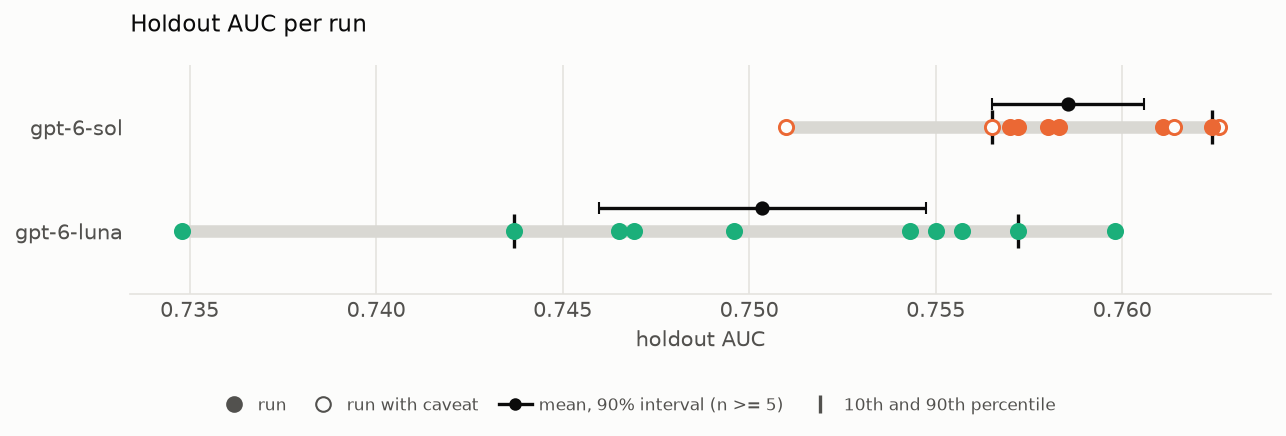
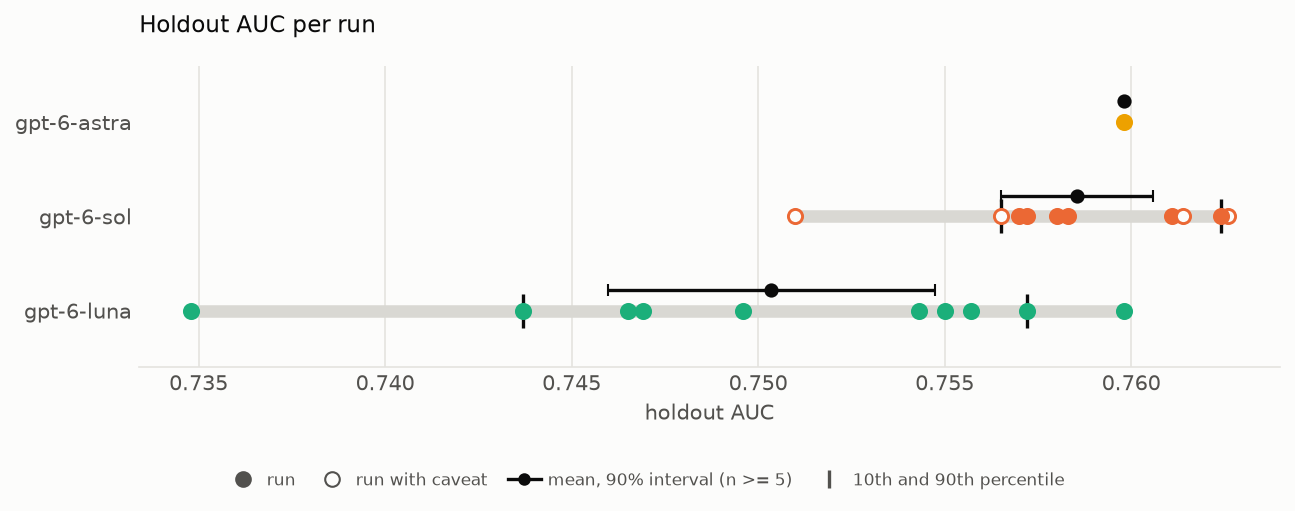
SUMMARY plots: add astra6_n10 run 1 (gpt-6-astra)
plot_holdout_auc: give gpt-6-astra the next fixed colour slot (3).

diff --git a/tools/plot_holdout_auc.py b/tools/plot_holdout_auc.py
@@ -38,7 +38,7 @@ from scipy import stats
 SERIES = ["#2a78d6", "#eb6834", "#1baf7a", "#eda100", "#e87ba4", "#008300", "#4a3aa7", "#e34948"]
 # colour follows the model in every plot: add new models here with the next free slot;
 # models not listed get the remaining slots in sorted order (and a warning)
-MODEL_SLOT = {"gpt-5.6-luna": 0, "gpt-6-sol": 1, "gpt-6-luna": 2}
+MODEL_SLOT = {"gpt-5.6-luna": 0, "gpt-6-sol": 1, "gpt-6-luna": 2, "gpt-6-astra": 3}
 SURFACE, INK, INK2, GRID, RANGE = "#fcfcfb", "#0b0b0b", "#52514e", "#e4e3df", "#d9d8d3"
 MIN_N_STATS = 5  # interval and percentiles only from this many runs up
 XLIM = None  # fixed holdout AUC range of the strip plot, e.g. (0.74, 0.77); None: the runs' range
